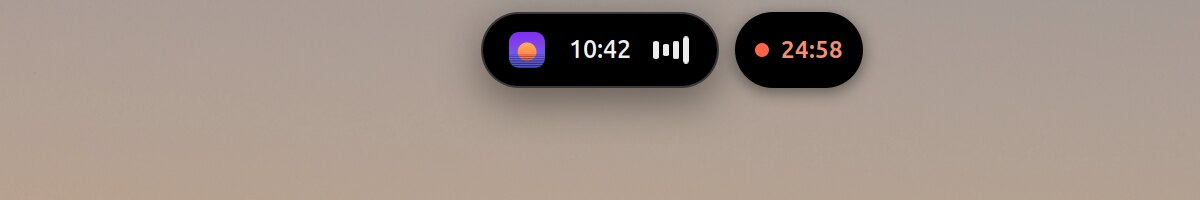
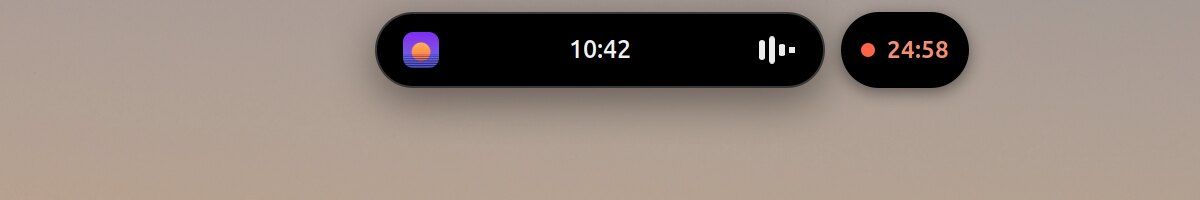
Wide album-art pill; site back to true scale with real wallpaper

Changed region(s): [[0.5242, 0.03, 0.8325, 0.57], [0.3083, 0.03, 0.4625, 0.57]]

diff --git a/docs/index.html b/docs/index.html
@@ -57,10 +57,10 @@
     </div>
 
     <figure class="hero-stage" data-hero-stage>
-        <div class="screen" id="hero-screen" data-logical="800"
+        <div class="screen" id="hero-screen" data-logical="1280"
              role="img" aria-label="A Linux desktop with Notchex at the top: it shows the current song, then a meeting with a Join button, then AirPods connecting, then opens into the hub">
             <div class="island" aria-hidden="true">
-                <img data-state="idle" src="img/island/idle.jpg" width="236" height="76" alt="">
+                <img data-state="idle" src="img/island/idle.jpg" width="448" height="76" alt="">
                 <img data-state="meeting" src="img/island/meeting.jpg" width="840" height="96" alt="">
                 <img data-state="bt" src="img/island/bt.jpg" width="680" height="76" alt="">
                 <img data-state="hub" src="img/island/hub.jpg" width="1280" height="797" alt="">
@@ -95,7 +95,7 @@
             <div class="screen screen-band" id="alerts-screen" data-logical="520"
                  role="img" aria-label="The notch showing the selected live activity">
                 <div class="island" aria-hidden="true">
-                    <img data-state="idle" src="img/island/idle.jpg" width="236" height="76" alt="">
+                    <img data-state="idle" src="img/island/idle.jpg" width="448" height="76" alt="">
                     <img data-state="meeting" src="img/island/meeting.jpg" width="840" height="96" alt="">
                     <img data-state="bt" src="img/island/bt.jpg" width="680" height="76" alt="">
                     <img data-state="play" src="img/island/play.jpg" width="760" height="76" alt="">
@@ -147,11 +147,11 @@
     </div>
     <div class="shape-cards">
         <button type="button" class="shape-card" data-set-shape="notch" data-reveal>
-            <img src="img/n/both.jpg" width="960" height="200" loading="lazy" alt="">
+            <img src="img/n/both.jpg" width="1440" height="300" loading="lazy" alt="">
             <span class="shape-card-text"><b>Notch</b><span>Joined to the top edge with rounded bottom corners. With a window maximized, it becomes one black bar, like a MacBook.</span></span>
         </button>
         <button type="button" class="shape-card" data-set-shape="pill" data-reveal>
-            <img src="img/p/both.jpg" width="960" height="200" loading="lazy" alt="">
+            <img src="img/p/both.jpg" width="1440" height="300" loading="lazy" alt="">
             <span class="shape-card-text"><b>Pill</b><span>A capsule floating just below the edge, with a light rim. Music and a timer at once? The timer gets its own bubble.</span></span>
         </button>
     </div>

diff --git a/docs/home.js b/docs/home.js
@@ -21,7 +21,7 @@
 
     /* logical size of each state (screenshots are 2x) */
     const SIZE = {
-        idle: [118, 38], meeting: [420, 48], bt: [340, 38], play: [380, 38],
+        idle: [224, 38], meeting: [420, 48], bt: [340, 38], play: [380, 38],
         focus: [300, 38], low: [340, 38], charge: [340, 38], hub: [640, 398.5],
     };
     const PILL_TOP = 6;
@@ -52,14 +52,12 @@
         /* px per logical px; phones zoom in so the island stays readable */
         get logical() {
             const wide = +this.screen.dataset.logical || 1280;
-            return this.screen.clientWidth < 700 ? Math.min(wide, 520) : wide;
+            return this.screen.clientWidth < 700 ? Math.min(wide, 700) : wide;
         }
 
         render() {
+            const s = this.screen.clientWidth / this.logical;
             const {w, h, p} = this.g;
-            const base = this.screen.clientWidth / this.logical;
-            /* on phones the open hub would overflow: shrink just enough to fit */
-            const s = Math.min(base, (this.screen.clientWidth * 0.96) / w);
             const r = (h <= 60 ? h / 2 : 24) * s;       // capsule when compact, 24 when open
             const top = r * p;                            // the notch's top corners are square
             Object.assign(this.el.style, {
@@ -73,8 +71,6 @@
             this.ears.style.setProperty('--half', `${(w * s) / 2}px`);
             this.ears.style.setProperty('--ear', `${10 * s}px`);
             this.ears.style.opacity = String(1 - p);
-            /* the wallpaper zooms with the island, as on a 1280-wide desktop */
-            this.screen.style.backgroundSize = `${Math.max(1280 * base, this.screen.clientWidth)}px auto`;
         }
 
         to(state) {

diff --git a/notch.js b/notch.js
@@ -436,9 +436,7 @@ class Notch extends St.Widget {
             right.set_width(side);
         }
         const [, rowW] = this._pillRow.get_preferred_width(-1);
-        /* art-only music: hug the art, clock and bars instead of the idle width */
-        const artOnly = this._mediaChip.visible && !this._musicTitle.visible;
-        let w = artOnly ? rowW : Math.max(this._px(this._cwMin), rowW);
+        let w = Math.max(this._px(this._cwMin), rowW);
         let h = this._px(this._ch);
         if (this._hoverState) {
             const [, subW] = this._subtitle.get_preferred_width(-1);
